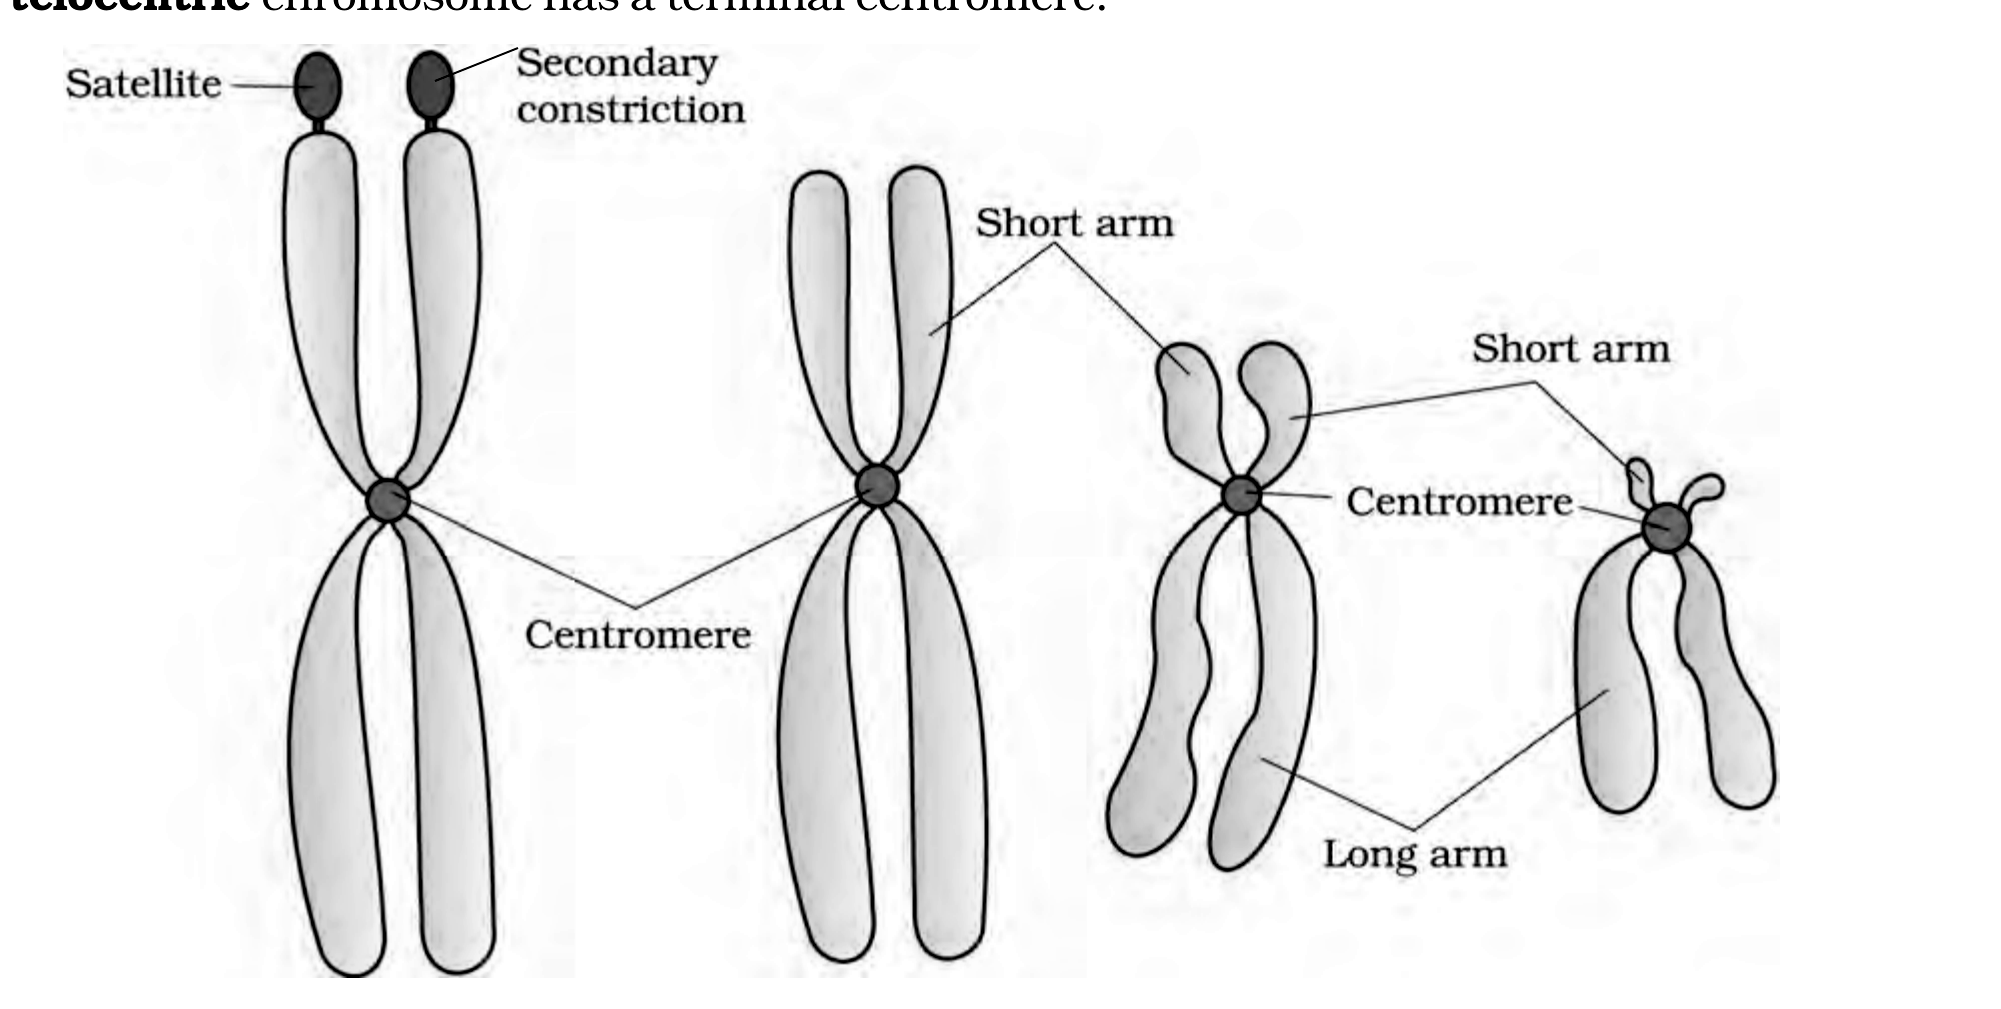
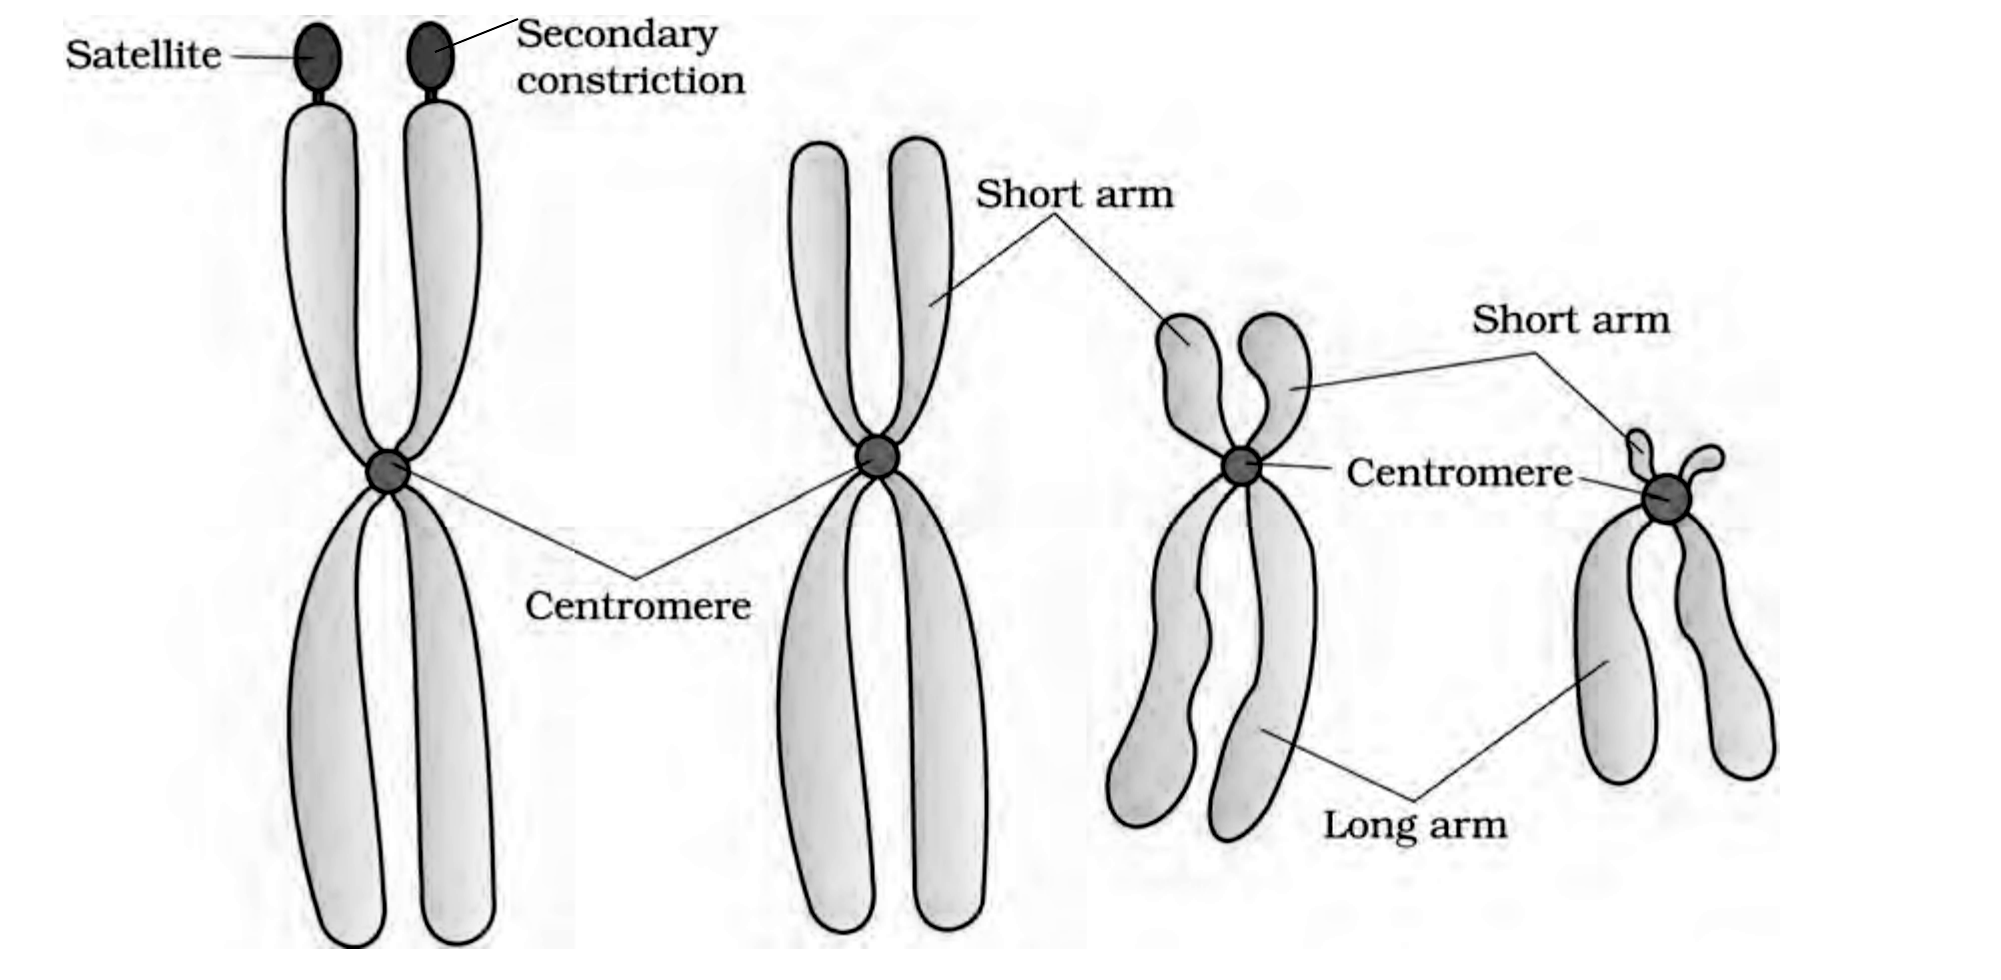
feat: update Ch8_CellTheUnitOfLife PDF and fix fig_8_13 crop issue

diff --git a/scratch/ch8/extract_figs.py b/scratch/ch8/extract_figs.py
@@ -45,7 +45,13 @@ FIGS = {
     "fig_8_10": (14,  45, 100, 500, 305),  # cilia/flagella section (a)+(b)
     "fig_8_11": (15,  55, 290, 320, 462),  # nucleus
     "fig_8_12": (16, 370,  95, 520, 372),  # chromosome with kinetochore
-    "fig_8_13": (16,  40, 448, 520, 690),  # types of chromosomes
+    # [VERIFICATION FIX - Pass 3(a)] y0 448 -> 455. At 448 the crop sliced the
+    # bottom half of the body line that ends "...telocentric chromosome has a
+    # terminal centromere." (span bbox y 442.4-452.9) into the top of the asset,
+    # so a clipped strip of NCERT running text was embedded above the diagram.
+    # The figure's own first graphic starts at y=459.4, so 455 drops the text
+    # strip without touching any figure content.
+    "fig_8_13": (16,  40, 455, 520, 690),  # types of chromosomes
 }
 
 
